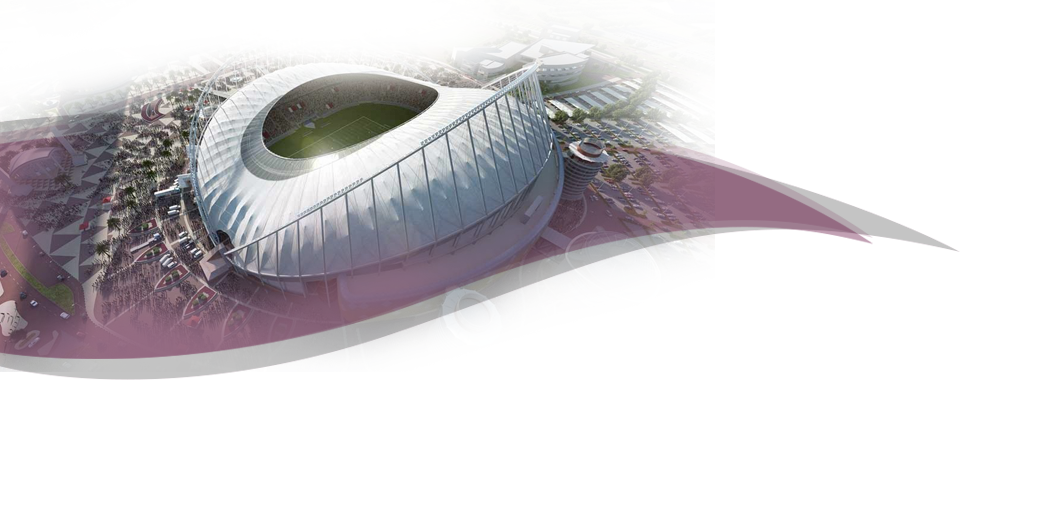
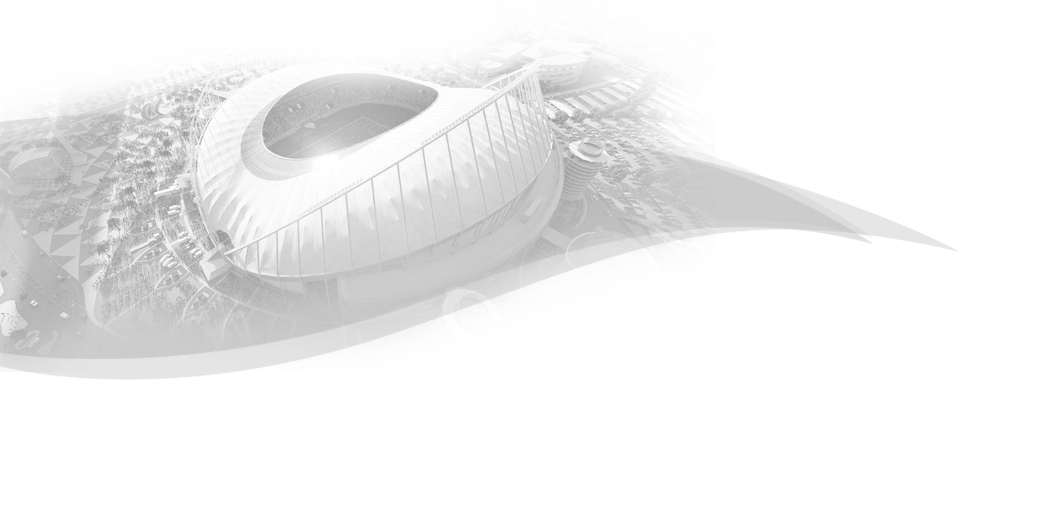
finish match page

diff --git a/world-cup/src/styles/match/match.css b/world-cup/src/styles/match/match.css
@@ -1,21 +1,110 @@
 .match_page {
-    /* background-color: bisque; */
     display: flex;
     flex-direction: column;
     height: 100%;
     width: 100%;
 }
 
+/* teams container */
 .match_page .match_container {
-    background-color: blueviolet;
     background-image: url("../../images/stad2.png");
     background-size: cover;
     background-repeat: no-repeat;
-    background-color: rgba(226, 226, 226, 1);
-    background-blend-mode: hard-light;
-    filter: saturate(0);
-    opacity: 0.4;
     flex-grow: 1;
-    /* position: relative; */
+    /* background-color: antiquewhite; */
+    display: flex;
+    flex-direction: column;
+    align-items: center;
 }
 
+/* match container header */
+.match_page .match_container .match_container_header{
+    color: gray;
+    padding-top: 3%;
+    width: 100%;
+    display: flex;
+    justify-content: space-around;
+}
+
+/* match teams */
+.match_page .match_container .match_teams {
+    margin: 3%;
+    color: black;
+    height: 10rem;
+    display: flex;
+    justify-content: center;
+    align-items: center;
+    font-size: 3em;
+    font-family: 'Franklin Gothic Medium', 'Arial Narrow', Arial, sans-serif;
+}
+
+.match_page .match_container .match_teams .team_logo {
+    /* background-color: aliceblue; */
+    height: 100%;
+    margin: 0 10%;
+}
+
+.match_page .match_container .match_teams img {
+    height: 100%;
+}
+
+.match_page .match_container .match_teams span {
+    font-family: Arial, Helvetica, sans-serif;
+    font-size: 70%;
+    font-weight: 200;
+}
+
+/* match refree */
+.match_lineman, .match_refree {
+    padding: 0.5rem;
+    height: 3rem;
+    display: flex;
+    justify-content: center;
+    align-items: center;
+    border-radius: 10px;
+    background-color: rgb(85 0 101);
+    color: white;
+    font-size: 1rem;
+    font-weight: 500;
+    margin: 1%;
+}
+
+.match_lineman img, .match_refree img {
+    height: 60%;
+}
+
+/* match linemen */
+.match_linesmen {
+    /* background-color: antiquewhite; */
+    width: 25%;
+    display: flex;
+    justify-content: center;
+}
+
+/* reservation container */
+.reservation_container {
+    /* background-color: rgb(85 0 101); */
+    margin: 1% 0;
+    height: 6rem;
+    display: flex;
+    justify-content: center;
+    align-items: center;
+}
+
+/* reservation button */
+.reservation_container button {
+    background-color: rgb(85 0 101);
+    color: white;
+    font-family: 'Gill Sans', 'Gill Sans MT', Calibri, 'Trebuchet MS', sans-serif;
+    font-size: 1rem;
+    font-weight: 500;
+    padding: 0.5rem;
+    border-radius: 10px;
+    border: none;
+    cursor: pointer;
+}
+
+/* reservation button hover */
+.reservation_container button:hover {
+    background-color: rgb(0 0 0 / 50%);
+}

diff --git a/world-cup/src/components/Match/Match.jsx b/world-cup/src/components/Match/Match.jsx
@@ -1,12 +1,77 @@
 import '../../styles/match/match.css'
+import egypt from '../../images/egypt.png';
+import brazil from '../../images/brazil.png';
+import refreeIcon from '../../images/whistle.png';
+import flagIcon from '../../images/flag.png';
 import Toolbar from '../Home/Toolbar';
+import { useState, useEffect} from 'react';
+
+const initialMatch = {
+  firstTeam: '',
+  secondTeam: '',
+  date: '',
+  time: '',
+  stadium: '',
+  mainRefree: '',
+  linesmen: []
+}
 
 function Match() {
+  const [match, setMatch] = useState(initialMatch);
+  useEffect(() => {
+    // TODO: get match data from backend
+    // axios.get('http://localhost:5000/match')
+    // .then(res => console.log('hi'))
+    // .catch(err => console.log(err))
+    setMatch({firstTeam: 'Egypt', secondTeam: 'Brazil',
+    date: '2021-06-01', time: '20:00', stadium: 'Lusail Stadium',
+    mainRefree: 'Mohamed Ali', linesmen: ['Ahmed Ali', 'Mohamed Ali']})
+  }, []);
+
   return (
     <div className="match_page">
       <Toolbar/>
       <div className="match_container">
-        
+        <div className="match_container_header">
+          <div className="match_stadium">
+            {match.stadium}
+          </div>
+          <div className="match_time">
+            {match.date} {match.time}
+          </div>
+        </div>
+        <div className="match_teams">
+          <div className="match_team">
+            {match.firstTeam}
+          </div>
+          <div className="team_logo">
+            <img src={egypt}/>
+          </div>
+          <span>vs</span>
+          <div className="team_logo">
+            <img src={brazil}/>
+          </div>
+          <div className="match_team">
+            {match.secondTeam}
+          </div>
+        </div>
+        <div className="match_refree">
+          <img src={refreeIcon} alt="refreeIcon"/>
+          <p>{match.mainRefree}</p>
+        </div>
+        <div className="match_linesmen">
+          <div className="match_lineman">
+            <img src={flagIcon} alt="flagIcon"/>
+            <p>{match.linesmen[0]}</p>
+          </div>
+          <div className="match_lineman">
+            <img src={flagIcon} alt="flagIcon"/>
+            <p>{match.linesmen[1]}</p>
+          </div>
+        </div>
+        <div className='reservation_container'>
+          <button>buy ticket</button>
+        </div>
       </div>
     </div>
   );

diff --git a/world-cup/src/flags.js b/world-cup/src/flags.js
@@ -1,0 +1,10 @@
+export const flags = {
+    // ...
+    // Path: src\flags.js
+    // ...
+    // Path: src\flags.js
+
+    // Path: src\flags.js
+    // ...      
+
+}
